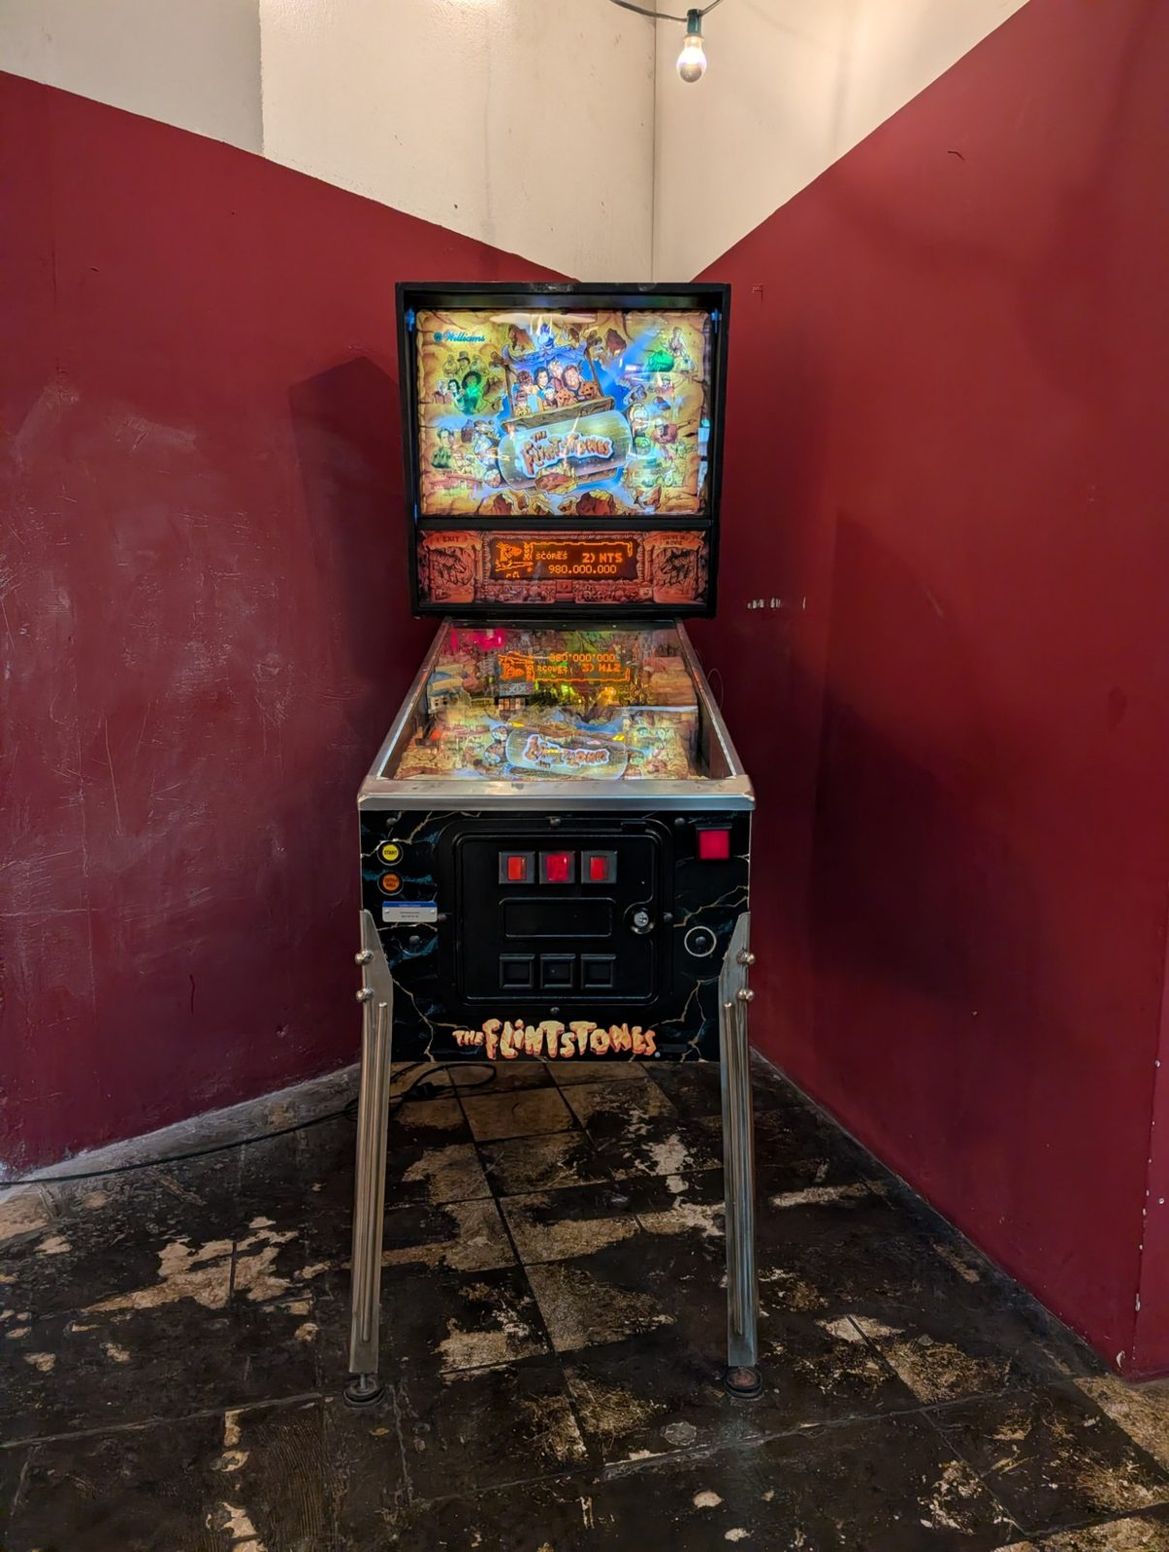
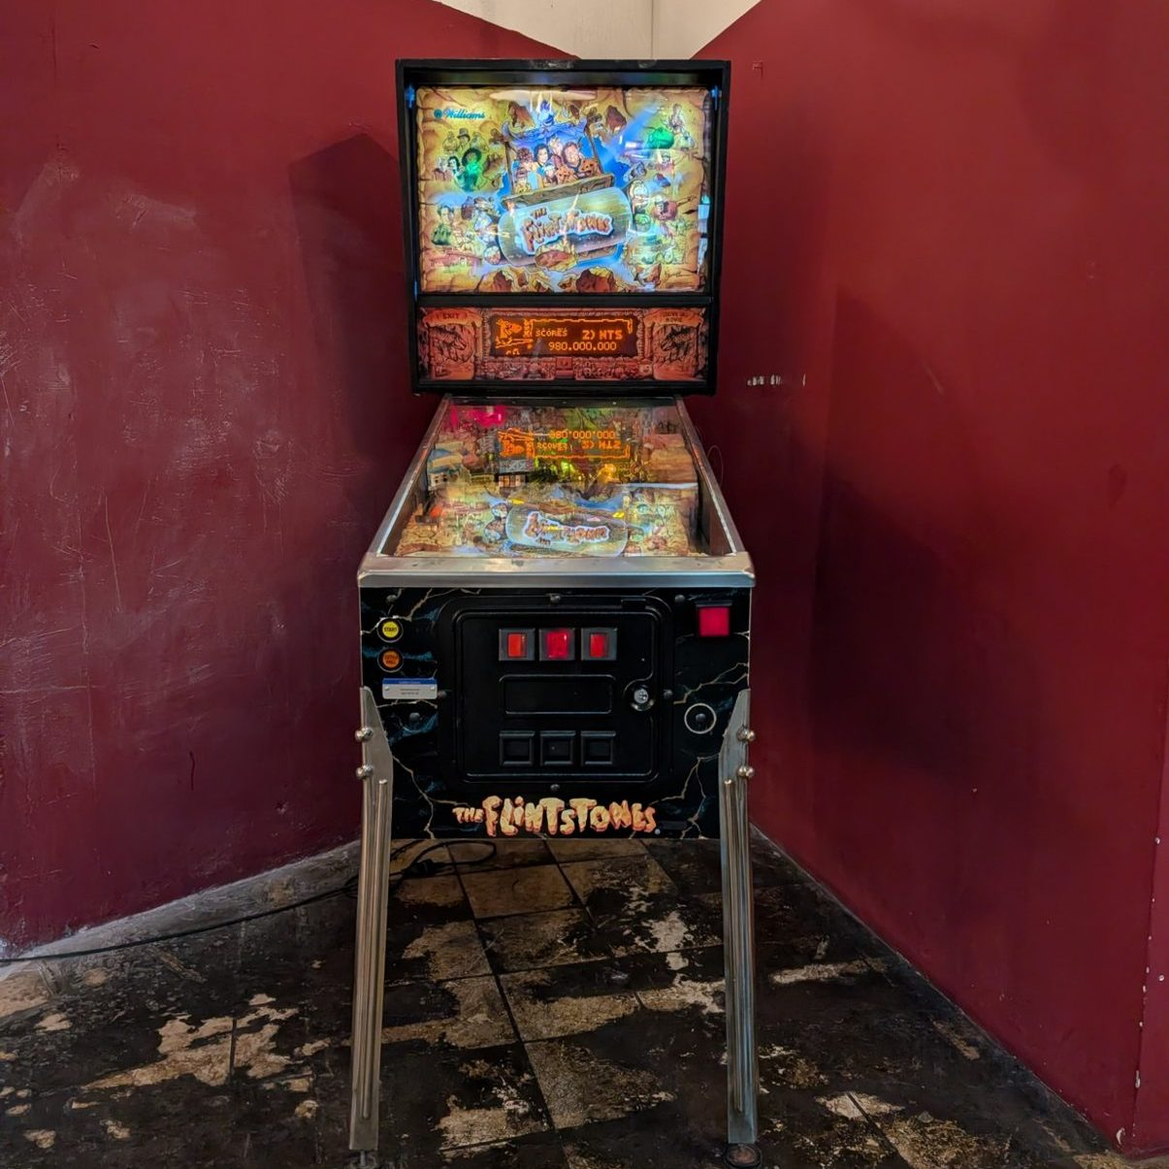
Knocking on doors: Orangerie crop shows the Playbox, one Bridge photo (drawing corner), squarer Klara photos

diff --git a/src/pages/fr/news/knocking-on-doors.html b/src/pages/fr/news/knocking-on-doors.html
@@ -44,11 +44,11 @@ nav: news
       <p>À la fin de 2025, la liste avait grandi de quatre&nbsp;: Klara, la Markthalle Basel, Love is Sweet Atelier et le Magical Cafe. Chacun avait déjà un espace pour les familles. Ce qu'ils avaient en commun, c'était quelqu'un à qui cela tenait à coeur.</p>
       <div class="pair">
         <figure>
-          <img src="/assets/img/news/klara-play-area.jpg" alt="Le coin jeux chez Klara à Bâle&nbsp;: des tapis de jeu bleus, une petite table avec des chaises et des caisses de jouets" width="1205" height="1600">
+          <img src="/assets/img/news/klara-play-area.jpg" alt="Le coin jeux chez Klara à Bâle&nbsp;: des tapis de jeu bleus, une petite table avec des chaises et des caisses de jouets" width="1205" height="1205">
           <figcaption>Le coin jeux chez Klara&nbsp;: tapis de jeu, une table pour dessiner et des caisses de jouets.</figcaption>
         </figure>
         <figure>
-          <img src="/assets/img/news/klara-pinball.jpg" alt="Un flipper Flintstones au Klara Studio" width="1205" height="1600">
+          <img src="/assets/img/news/klara-pinball.jpg" alt="Un flipper Flintstones au Klara Studio" width="1205" height="1205">
           <figcaption>Le flipper du Klara Studio, au sous-sol.</figcaption>
         </figure>
       </div>
@@ -83,16 +83,10 @@ nav: news
       <p>Chaque lieu était si individuel qu'ensemble, ils formaient un groupe riche de projets pilotes. Depuis janvier, nous avons eu la chance d'en accueillir trois de plus&nbsp;: Crafty Crew Toddler Workshops, Sempre Berna et le Bridge à Zurich.</p>
 
       <h2>Apprendre du plus grand</h2>
-      <div class="pair">
-        <figure>
-          <img src="/assets/img/news/bridge-play-area.jpg" alt="Le coin jeux sur mesure au Bridge à Zurich&nbsp;: une alcôve avec table à dessin, la Playbox, une cuisine de jeu et une maisonnette en bois" width="1600" height="1205">
-          <figcaption>Le coin jeux sur mesure au Bridge à Zurich, avec la Playbox.</figcaption>
-        </figure>
-        <figure>
-          <img src="/assets/img/news/bridge-table.jpg" alt="La maisonnette en bois au Bridge à Zurich, avec des coussins et des livres, une cuisine de jeu et un cheval à bascule" width="1600" height="1205">
-          <figcaption>La maisonnette de jeu, avec une cuisine et un cheval à bascule.</figcaption>
-        </figure>
-      </div>
+      <figure>
+        <img src="/assets/img/news/bridge-play-area.jpg" alt="Le coin dessin au Bridge à Zurich&nbsp;: une alcôve avec la fresque aux poussettes, une table avec des feutres et la Playbox." width="1600" height="1205">
+        <figcaption>Le coin dessin au Bridge à Zurich, avec la Playbox.</figcaption>
+      </figure>
       <p>Le Bridge a été notre premier coin jeux sur mesure. Nous avons installé trois éléments de jeu plus grands avec une Friendly Spaces Playbox, qui est contrôlée plus souvent que d'habitude. Il nous a aussi le plus appris. Dans un lieu avec autant de passage, tout doit être assez robuste pour survivre à un très grand nombre de petites mains, et notre premier contrôle nous a surpris. Nous avons dû nous asseoir et trouver comment nous occuper de lieux de cette taille. C'était l'une des expériences les plus précieuses du pilote.</p>
       <p>Le dernier essai était un coin jeux mobile, construit pour l'événement de premiers secours pour parents de #hashtagviedesparents. Cela a fonctionné. Il y avait beaucoup de petits visiteurs, et leurs parents étaient heureux de découvrir un coin ludique lors d'un tel événement. J'avais rencontré Cleo Cuadra, la propriétaire de #hashtagviedesparents, vers la fin de 2025, et elle est depuis une excellente partenaire, qui soutient l'idée et en parle dans son réseau. Nous ne sommes pas encore arrivés en Romandie, mais nous avons des pistes, et c'est la prochaine étape vers la mise en lien des familles avec les lieux qui les accueillent.</p>
       <p>Le pilote s'est terminé cet été. Nous avons appris plus que prévu, et nous sommes motivés pour passer à la prochaine phase.</p>

diff --git a/fr/news/knocking-on-doors.html b/fr/news/knocking-on-doors.html
@@ -100,11 +100,11 @@
       <p>À la fin de 2025, la liste avait grandi de quatre&nbsp;: Klara, la Markthalle Basel, Love is Sweet Atelier et le Magical Cafe. Chacun avait déjà un espace pour les familles. Ce qu'ils avaient en commun, c'était quelqu'un à qui cela tenait à coeur.</p>
       <div class="pair">
         <figure>
-          <img src="/assets/img/news/klara-play-area.jpg" alt="Le coin jeux chez Klara à Bâle&nbsp;: des tapis de jeu bleus, une petite table avec des chaises et des caisses de jouets" width="1205" height="1600">
+          <img src="/assets/img/news/klara-play-area.jpg" alt="Le coin jeux chez Klara à Bâle&nbsp;: des tapis de jeu bleus, une petite table avec des chaises et des caisses de jouets" width="1205" height="1205">
           <figcaption>Le coin jeux chez Klara&nbsp;: tapis de jeu, une table pour dessiner et des caisses de jouets.</figcaption>
         </figure>
         <figure>
-          <img src="/assets/img/news/klara-pinball.jpg" alt="Un flipper Flintstones au Klara Studio" width="1205" height="1600">
+          <img src="/assets/img/news/klara-pinball.jpg" alt="Un flipper Flintstones au Klara Studio" width="1205" height="1205">
           <figcaption>Le flipper du Klara Studio, au sous-sol.</figcaption>
         </figure>
       </div>
@@ -139,16 +139,10 @@
       <p>Chaque lieu était si individuel qu'ensemble, ils formaient un groupe riche de projets pilotes. Depuis janvier, nous avons eu la chance d'en accueillir trois de plus&nbsp;: Crafty Crew Toddler Workshops, Sempre Berna et le Bridge à Zurich.</p>
 
       <h2>Apprendre du plus grand</h2>
-      <div class="pair">
-        <figure>
-          <img src="/assets/img/news/bridge-play-area.jpg" alt="Le coin jeux sur mesure au Bridge à Zurich&nbsp;: une alcôve avec table à dessin, la Playbox, une cuisine de jeu et une maisonnette en bois" width="1600" height="1205">
-          <figcaption>Le coin jeux sur mesure au Bridge à Zurich, avec la Playbox.</figcaption>
-        </figure>
-        <figure>
-          <img src="/assets/img/news/bridge-table.jpg" alt="La maisonnette en bois au Bridge à Zurich, avec des coussins et des livres, une cuisine de jeu et un cheval à bascule" width="1600" height="1205">
-          <figcaption>La maisonnette de jeu, avec une cuisine et un cheval à bascule.</figcaption>
-        </figure>
-      </div>
+      <figure>
+        <img src="/assets/img/news/bridge-play-area.jpg" alt="Le coin dessin au Bridge à Zurich&nbsp;: une alcôve avec la fresque aux poussettes, une table avec des feutres et la Playbox." width="1600" height="1205">
+        <figcaption>Le coin dessin au Bridge à Zurich, avec la Playbox.</figcaption>
+      </figure>
       <p>Le Bridge a été notre premier coin jeux sur mesure. Nous avons installé trois éléments de jeu plus grands avec une Friendly Spaces Playbox, qui est contrôlée plus souvent que d'habitude. Il nous a aussi le plus appris. Dans un lieu avec autant de passage, tout doit être assez robuste pour survivre à un très grand nombre de petites mains, et notre premier contrôle nous a surpris. Nous avons dû nous asseoir et trouver comment nous occuper de lieux de cette taille. C'était l'une des expériences les plus précieuses du pilote.</p>
       <p>Le dernier essai était un coin jeux mobile, construit pour l'événement de premiers secours pour parents de #hashtagviedesparents. Cela a fonctionné. Il y avait beaucoup de petits visiteurs, et leurs parents étaient heureux de découvrir un coin ludique lors d'un tel événement. J'avais rencontré Cleo Cuadra, la propriétaire de #hashtagviedesparents, vers la fin de 2025, et elle est depuis une excellente partenaire, qui soutient l'idée et en parle dans son réseau. Nous ne sommes pas encore arrivés en Romandie, mais nous avons des pistes, et c'est la prochaine étape vers la mise en lien des familles avec les lieux qui les accueillent.</p>
       <p>Le pilote s'est terminé cet été. Nous avons appris plus que prévu, et nous sommes motivés pour passer à la prochaine phase.</p>

diff --git a/src/pages/de/news/knocking-on-doors.html b/src/pages/de/news/knocking-on-doors.html
@@ -44,11 +44,11 @@ nav: news
       <p>Bis Ende 2025 war die Liste um vier gewachsen: Klara, die Markthalle Basel, Love is Sweet Atelier und das Magical Cafe. Jeder dieser Orte hatte bereits einen Raum für Familien. Was sie gemeinsam hatten, war jemand, dem dieser Raum wichtig war.</p>
       <div class="pair">
         <figure>
-          <img src="/assets/img/news/klara-play-area.jpg" alt="Die Spielecke bei Klara in Basel: blaue Spielmatten, ein kleiner Tisch mit Stühlen und Kisten mit Spielsachen" width="1205" height="1600">
+          <img src="/assets/img/news/klara-play-area.jpg" alt="Die Spielecke bei Klara in Basel: blaue Spielmatten, ein kleiner Tisch mit Stühlen und Kisten mit Spielsachen" width="1205" height="1205">
           <figcaption>Die Spielecke bei Klara: Spielmatten, ein Tisch zum Zeichnen und Kisten mit Spielsachen.</figcaption>
         </figure>
         <figure>
-          <img src="/assets/img/news/klara-pinball.jpg" alt="Ein Flintstones-Flipper im Klara Studio" width="1205" height="1600">
+          <img src="/assets/img/news/klara-pinball.jpg" alt="Ein Flintstones-Flipper im Klara Studio" width="1205" height="1205">
           <figcaption>Der Flipper im Klara Studio im Untergeschoss.</figcaption>
         </figure>
       </div>
@@ -83,16 +83,10 @@ nav: news
       <p>Jeder Ort war so individuell, dass sie zusammen eine reiche Gruppe von Pilotbetrieben ergaben. Seit Januar hatten wir das Glück, drei weitere willkommen zu heissen: Crafty Crew Toddler Workshops, Sempre Berna und das Bridge in Zürich.</p>
 
       <h2>Vom grössten lernen</h2>
-      <div class="pair">
-        <figure>
-          <img src="/assets/img/news/bridge-play-area.jpg" alt="Die individuell gestaltete Spielecke im Bridge in Zürich: eine Sitznische mit Zeichentisch, die Playbox, eine Spielküche und ein Spielhaus aus Holz" width="1600" height="1205">
-          <figcaption>Die individuell gestaltete Spielecke im Bridge in Zürich, mit der Playbox.</figcaption>
-        </figure>
-        <figure>
-          <img src="/assets/img/news/bridge-table.jpg" alt="Das Spielhaus aus Holz im Bridge in Zürich, mit Kissen und Büchern, einer Spielküche und einem Schaukelpferd" width="1600" height="1205">
-          <figcaption>Das Spielhaus, mit Spielküche und Schaukelpferd.</figcaption>
-        </figure>
-      </div>
+      <figure>
+        <img src="/assets/img/news/bridge-play-area.jpg" alt="Die Zeichenecke im Bridge in Zürich: eine Sitznische mit dem Kinderwagen-Wandbild, ein Tisch mit Farbstiften und die Playbox." width="1600" height="1205">
+        <figcaption>Die Zeichenecke im Bridge in Zürich, mit der Playbox.</figcaption>
+      </figure>
       <p>Das Bridge war unsere erste individuell gestaltete Spielecke. Wir stellten drei grössere Spielelemente zusammen mit einer Friendly Spaces Playbox auf, die häufiger als üblich kontrolliert wird. Es hat uns auch am meisten gelehrt. An einem Ort mit so viel Betrieb muss alles robust genug sein, um sehr viele kleine Hände zu überstehen, und unsere erste Kontrolle überraschte uns. Wir mussten uns zusammensetzen und herausfinden, wie wir Orte dieser Grösse betreuen können. Es war eine der wertvollsten Erfahrungen des Pilots.</p>
       <p>Der jüngste Test war eine mobile Spielecke, gebaut für den Erste-Hilfe-Event für Eltern von #hashtagviedesparents. Es funktionierte. Es gab viele kleine Besucherinnen und Besucher, und ihre Eltern freuten sich, an einem solchen Event eine spielerische Ecke zu entdecken. Ich hatte Cleo Cuadra, die Besitzerin von #hashtagviedesparents, gegen Ende 2025 kennengelernt, und sie ist seither eine grossartige Partnerin, die die Idee unterstützt und in ihrem Netzwerk weiterträgt. In die Romandie haben wir es noch nicht geschafft, aber wir haben Kontakte, und sie ist der nächste Halt auf dem Weg, Familien mit den Orten zu verbinden, die sie willkommen heissen.</p>
       <p>Der Pilot endete diesen Sommer. Wir haben mehr gelernt, als wir erwartet hatten, und wir sind motiviert, in die nächste Phase zu gehen.</p>

diff --git a/de/news/knocking-on-doors.html b/de/news/knocking-on-doors.html
@@ -100,11 +100,11 @@
       <p>Bis Ende 2025 war die Liste um vier gewachsen: Klara, die Markthalle Basel, Love is Sweet Atelier und das Magical Cafe. Jeder dieser Orte hatte bereits einen Raum für Familien. Was sie gemeinsam hatten, war jemand, dem dieser Raum wichtig war.</p>
       <div class="pair">
         <figure>
-          <img src="/assets/img/news/klara-play-area.jpg" alt="Die Spielecke bei Klara in Basel: blaue Spielmatten, ein kleiner Tisch mit Stühlen und Kisten mit Spielsachen" width="1205" height="1600">
+          <img src="/assets/img/news/klara-play-area.jpg" alt="Die Spielecke bei Klara in Basel: blaue Spielmatten, ein kleiner Tisch mit Stühlen und Kisten mit Spielsachen" width="1205" height="1205">
           <figcaption>Die Spielecke bei Klara: Spielmatten, ein Tisch zum Zeichnen und Kisten mit Spielsachen.</figcaption>
         </figure>
         <figure>
-          <img src="/assets/img/news/klara-pinball.jpg" alt="Ein Flintstones-Flipper im Klara Studio" width="1205" height="1600">
+          <img src="/assets/img/news/klara-pinball.jpg" alt="Ein Flintstones-Flipper im Klara Studio" width="1205" height="1205">
           <figcaption>Der Flipper im Klara Studio im Untergeschoss.</figcaption>
         </figure>
       </div>
@@ -139,16 +139,10 @@
       <p>Jeder Ort war so individuell, dass sie zusammen eine reiche Gruppe von Pilotbetrieben ergaben. Seit Januar hatten wir das Glück, drei weitere willkommen zu heissen: Crafty Crew Toddler Workshops, Sempre Berna und das Bridge in Zürich.</p>
 
       <h2>Vom grössten lernen</h2>
-      <div class="pair">
-        <figure>
-          <img src="/assets/img/news/bridge-play-area.jpg" alt="Die individuell gestaltete Spielecke im Bridge in Zürich: eine Sitznische mit Zeichentisch, die Playbox, eine Spielküche und ein Spielhaus aus Holz" width="1600" height="1205">
-          <figcaption>Die individuell gestaltete Spielecke im Bridge in Zürich, mit der Playbox.</figcaption>
-        </figure>
-        <figure>
-          <img src="/assets/img/news/bridge-table.jpg" alt="Das Spielhaus aus Holz im Bridge in Zürich, mit Kissen und Büchern, einer Spielküche und einem Schaukelpferd" width="1600" height="1205">
-          <figcaption>Das Spielhaus, mit Spielküche und Schaukelpferd.</figcaption>
-        </figure>
-      </div>
+      <figure>
+        <img src="/assets/img/news/bridge-play-area.jpg" alt="Die Zeichenecke im Bridge in Zürich: eine Sitznische mit dem Kinderwagen-Wandbild, ein Tisch mit Farbstiften und die Playbox." width="1600" height="1205">
+        <figcaption>Die Zeichenecke im Bridge in Zürich, mit der Playbox.</figcaption>
+      </figure>
       <p>Das Bridge war unsere erste individuell gestaltete Spielecke. Wir stellten drei grössere Spielelemente zusammen mit einer Friendly Spaces Playbox auf, die häufiger als üblich kontrolliert wird. Es hat uns auch am meisten gelehrt. An einem Ort mit so viel Betrieb muss alles robust genug sein, um sehr viele kleine Hände zu überstehen, und unsere erste Kontrolle überraschte uns. Wir mussten uns zusammensetzen und herausfinden, wie wir Orte dieser Grösse betreuen können. Es war eine der wertvollsten Erfahrungen des Pilots.</p>
       <p>Der jüngste Test war eine mobile Spielecke, gebaut für den Erste-Hilfe-Event für Eltern von #hashtagviedesparents. Es funktionierte. Es gab viele kleine Besucherinnen und Besucher, und ihre Eltern freuten sich, an einem solchen Event eine spielerische Ecke zu entdecken. Ich hatte Cleo Cuadra, die Besitzerin von #hashtagviedesparents, gegen Ende 2025 kennengelernt, und sie ist seither eine grossartige Partnerin, die die Idee unterstützt und in ihrem Netzwerk weiterträgt. In die Romandie haben wir es noch nicht geschafft, aber wir haben Kontakte, und sie ist der nächste Halt auf dem Weg, Familien mit den Orten zu verbinden, die sie willkommen heissen.</p>
       <p>Der Pilot endete diesen Sommer. Wir haben mehr gelernt, als wir erwartet hatten, und wir sind motiviert, in die nächste Phase zu gehen.</p>

diff --git a/src/pages/en/news/knocking-on-doors.html b/src/pages/en/news/knocking-on-doors.html
@@ -43,11 +43,11 @@ nav: news
       <p>By the end of 2025 the list had grown by four: Klara, the Markthalle Basel, Love is Sweet Atelier and the Magical Cafe. Each of them already had a space for families. What they had in common was someone who cared about it.</p>
       <div class="pair">
         <figure>
-          <img src="/assets/img/news/klara-play-area.jpg" alt="The play area at Klara in Basel: blue play mats, a small table and chairs, and crates of toys" width="1205" height="1600">
+          <img src="/assets/img/news/klara-play-area.jpg" alt="The play area at Klara in Basel: blue play mats, a small table and chairs, and crates of toys" width="1205" height="1205">
           <figcaption>The play area at Klara: play mats, a table for drawing, and crates of toys.</figcaption>
         </figure>
         <figure>
-          <img src="/assets/img/news/klara-pinball.jpg" alt="A Flintstones pinball machine in the Klara Studio" width="1205" height="1600">
+          <img src="/assets/img/news/klara-pinball.jpg" alt="A Flintstones pinball machine in the Klara Studio" width="1205" height="1205">
           <figcaption>The pinball machine in the Klara Studio downstairs.</figcaption>
         </figure>
       </div>
@@ -82,16 +82,10 @@ nav: news
       <p>Each place was so individual that together they made a rich group of pilot businesses. Since January we were lucky to welcome three more: Crafty Crew Toddler Workshops, Sempre Berna and the Bridge in Zurich.</p>
 
       <h2>Learning from the biggest one</h2>
-      <div class="pair">
-        <figure>
-          <img src="/assets/img/news/bridge-play-area.jpg" alt="The custom play area at the Bridge in Zurich: a bench nook with a drawing table, the Playbox, a play kitchen and a wooden play house" width="1600" height="1205">
-          <figcaption>The custom play area at the Bridge in Zurich, with the Playbox.</figcaption>
-        </figure>
-        <figure>
-          <img src="/assets/img/news/bridge-table.jpg" alt="The wooden play house at the Bridge in Zurich, with cushions and books, a play kitchen and a rocking horse" width="1600" height="1205">
-          <figcaption>The play house, with a kitchen and a rocking horse.</figcaption>
-        </figure>
-      </div>
+      <figure>
+        <img src="/assets/img/news/bridge-play-area.jpg" alt="The drawing corner at the Bridge in Zurich: a bench nook with the stroller mural, a table with crayons, and the Playbox." width="1600" height="1205">
+        <figcaption>The drawing corner at the Bridge in Zurich, with the Playbox.</figcaption>
+      </figure>
       <p>The Bridge was our first custom play area. We set up three larger play items along with a Friendly Spaces Playbox that gets checked more often than usual. It also taught us the most. In a venue with that much traffic, everything has to be robust enough to survive a great many small hands, and our first check surprised us. We had to sit down and work out how to look after venues of that size. It was one of the most valuable experiences of the pilot.</p>
       <p>The latest trial was a mobile play corner, built for #hashtagviedesparents' first aid event for parents. It worked. There were many little visitors, and their parents were happy to discover a playful corner at such an event. I had met Cleo Cuadra, the owner of #hashtagviedesparents, near the end of 2025, and she has been a great partner since, supporting the idea and spreading the word in her network. We have not yet made it to the Romandie, but we have leads, and it is the next stop on the way to connecting families with the places that welcome them.</p>
       <p>The pilot ended this summer. We learned more than we expected, and we are motivated to move into the next phase.</p>

diff --git a/news/knocking-on-doors.html b/news/knocking-on-doors.html
@@ -99,11 +99,11 @@
       <p>By the end of 2025 the list had grown by four: Klara, the Markthalle Basel, Love is Sweet Atelier and the Magical Cafe. Each of them already had a space for families. What they had in common was someone who cared about it.</p>
       <div class="pair">
         <figure>
-          <img src="/assets/img/news/klara-play-area.jpg" alt="The play area at Klara in Basel: blue play mats, a small table and chairs, and crates of toys" width="1205" height="1600">
+          <img src="/assets/img/news/klara-play-area.jpg" alt="The play area at Klara in Basel: blue play mats, a small table and chairs, and crates of toys" width="1205" height="1205">
           <figcaption>The play area at Klara: play mats, a table for drawing, and crates of toys.</figcaption>
         </figure>
         <figure>
-          <img src="/assets/img/news/klara-pinball.jpg" alt="A Flintstones pinball machine in the Klara Studio" width="1205" height="1600">
+          <img src="/assets/img/news/klara-pinball.jpg" alt="A Flintstones pinball machine in the Klara Studio" width="1205" height="1205">
           <figcaption>The pinball machine in the Klara Studio downstairs.</figcaption>
         </figure>
       </div>
@@ -138,16 +138,10 @@
       <p>Each place was so individual that together they made a rich group of pilot businesses. Since January we were lucky to welcome three more: Crafty Crew Toddler Workshops, Sempre Berna and the Bridge in Zurich.</p>
 
       <h2>Learning from the biggest one</h2>
-      <div class="pair">
-        <figure>
-          <img src="/assets/img/news/bridge-play-area.jpg" alt="The custom play area at the Bridge in Zurich: a bench nook with a drawing table, the Playbox, a play kitchen and a wooden play house" width="1600" height="1205">
-          <figcaption>The custom play area at the Bridge in Zurich, with the Playbox.</figcaption>
-        </figure>
-        <figure>
-          <img src="/assets/img/news/bridge-table.jpg" alt="The wooden play house at the Bridge in Zurich, with cushions and books, a play kitchen and a rocking horse" width="1600" height="1205">
-          <figcaption>The play house, with a kitchen and a rocking horse.</figcaption>
-        </figure>
-      </div>
+      <figure>
+        <img src="/assets/img/news/bridge-play-area.jpg" alt="The drawing corner at the Bridge in Zurich: a bench nook with the stroller mural, a table with crayons, and the Playbox." width="1600" height="1205">
+        <figcaption>The drawing corner at the Bridge in Zurich, with the Playbox.</figcaption>
+      </figure>
       <p>The Bridge was our first custom play area. We set up three larger play items along with a Friendly Spaces Playbox that gets checked more often than usual. It also taught us the most. In a venue with that much traffic, everything has to be robust enough to survive a great many small hands, and our first check surprised us. We had to sit down and work out how to look after venues of that size. It was one of the most valuable experiences of the pilot.</p>
       <p>The latest trial was a mobile play corner, built for #hashtagviedesparents' first aid event for parents. It worked. There were many little visitors, and their parents were happy to discover a playful corner at such an event. I had met Cleo Cuadra, the owner of #hashtagviedesparents, near the end of 2025, and she has been a great partner since, supporting the idea and spreading the word in her network. We have not yet made it to the Romandie, but we have leads, and it is the next stop on the way to connecting families with the places that welcome them.</p>
       <p>The pilot ended this summer. We learned more than we expected, and we are motivated to move into the next phase.</p>
